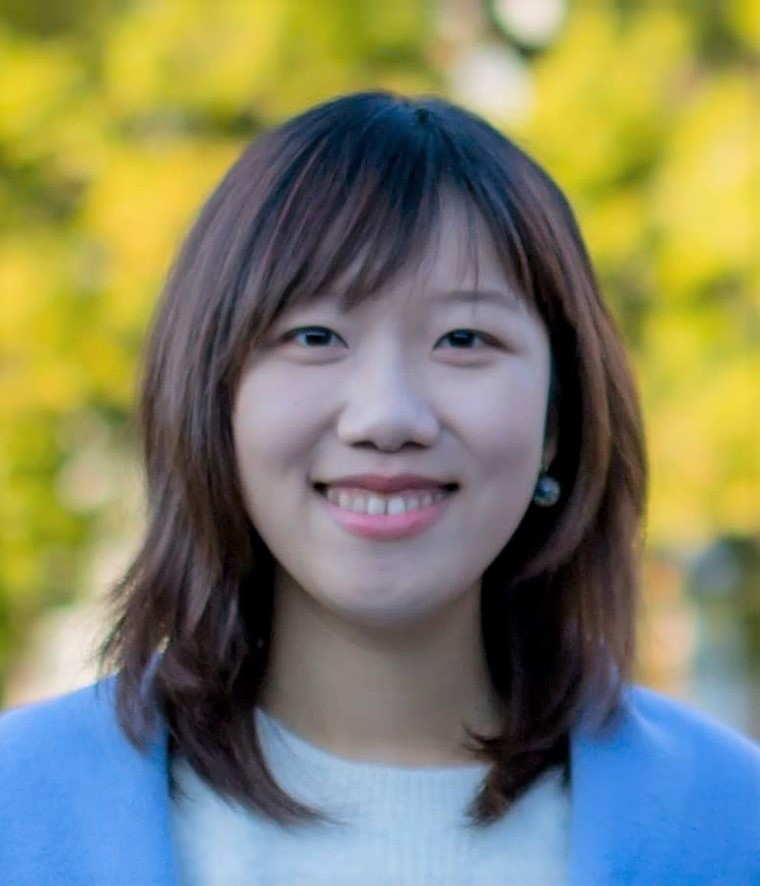
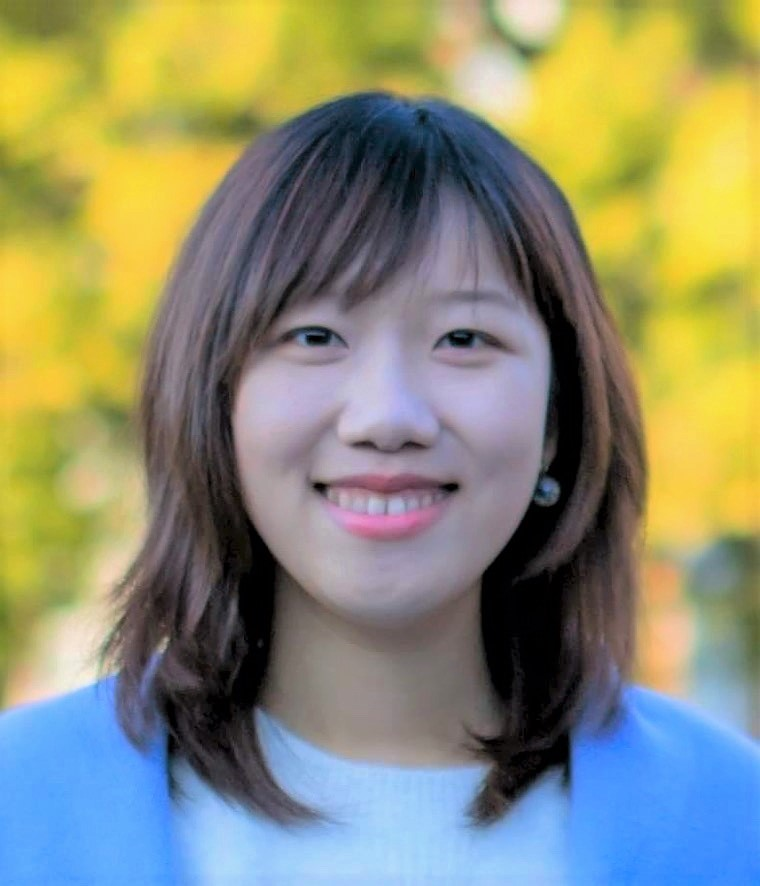
updated profile

diff --git a/index.html b/index.html
@@ -13,13 +13,15 @@
 <h1>Meng-Yu Jennifer Kuo</h1>
 </div>
 <table class="imgtable"><tr><td>
+<!--<img src="photo/jenny3.jpg" alt="Meng-Yu Jennifer Kuo" 
+width="175" height="200" />&nbsp;</td>-->
 <img src="photo/jennifer_photo.png" alt="Meng-Yu Jennifer Kuo" 
 width="250" height="268" />&nbsp;</td>
 <td align="left">
 
 <p> Hello! I am a Ph.D. student at <a href="https://vision.ist.i.kyoto-u.ac.jp/" target="_blank">Computer Vision Lab</a> at <a href="https://www.kyoto-u.ac.jp/en/" target="_blank">Kyoto University</a> 
   under the supervision of <a href="https://shohei.nobuhara.org/index.en.html" target="_blank">Prof. Shohei Nobuhara</a> and <a href="https://vision.ist.i.kyoto-u.ac.jp/assets/KNishino_CV.pdf" target="_blank">Prof. Ko Nishino</a>. 
-  My research interests include: computer vision, 3D capture in water, computational photography, structure-from-motion, projector-camera systems, multiple view geometry, and (self-)calibration.</p>
+  My research interests include: computer vision, 3D capture in water, computational photography, structure-from-motion, and multiple view geometry.</p>
 
 
 <!--<p><a href="cv.pdf" target="_blank">CV</a> | <a href=""  target="_blank">Google Scholar</a> | <a href="" target="_blank">twitter</a> -->
